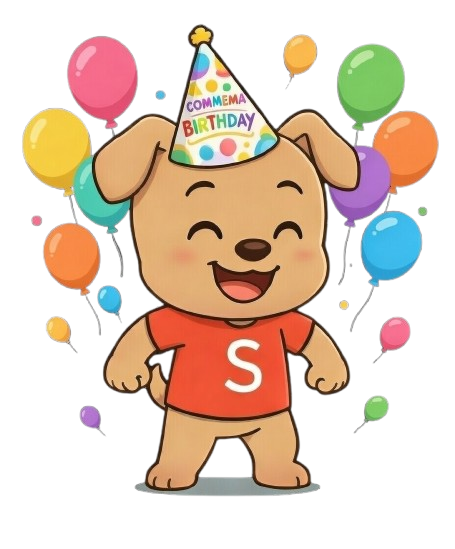
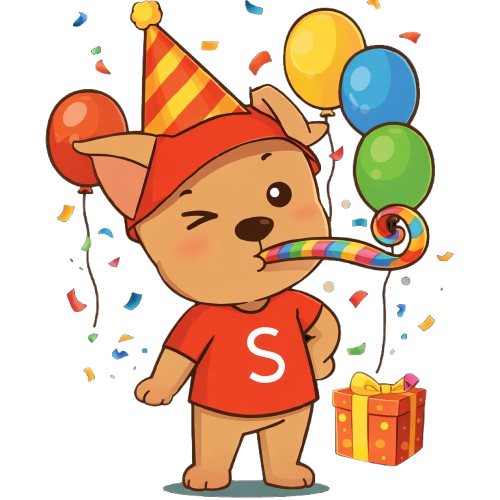
tour versão 2 completa

diff --git a/src/components/driver/ShopitoMascot.tsx b/src/components/driver/ShopitoMascot.tsx
@@ -1,6 +1,6 @@
 import React, { useState, useEffect } from "react";
 
-// MAPEAMENTO COMPLETO (Antigos + Novos)
+// Imagens Tour
 const MOODS = {
   // --- ANTIGOS ---
   welcome: [
@@ -8,15 +8,15 @@ const MOODS = {
     "/mascots/Shopito-Acenando/wave-2.png",
   ],
   angry: [
-    "/mascots/Shopito-Brabo/angry-1.png",
-    "/mascots/Shopito-Brabo/angry-2.png",
+    "/mascots/Shopito-Brabo/Policial1.png",
+    "/mascots/Shopito-Brabo/Policial2.png",
+    "/mascots/Shopito-Brabo/Policial3.png",
   ],
   ok: ["/mascots/Shopito-Ok/ok-1.png", "/mascots/Shopito-Ok/ok-2.png"],
   "point-right": ["/mascots/Shopito-Apontando/point-right.png"],
   "point-left": ["/mascots/Shopito-Apontando/point-left.png"],
   chicken: ["/mascots/Galinha-Bot/Galinha.png"],
 
-  // --- NOVOS (Adicionados Agora) ---
   map: [
     "/mascots/ShoppitoMapa/ShoppitoProf-1.png",
     "/mascots/ShoppitoMapa/ShoppitoProf-2.png",
@@ -27,11 +27,26 @@ const MOODS = {
     "/mascots/ShoppitoRanking/ShopitoCorredor-2.png",
     "/mascots/ShoppitoRanking/ShopitoCorredor-3.png",
   ],
-  // ✅ ALTERADO: Renomeei de 'celebrate' para 'finale' para bater com o Tour
+
+  weather: [
+    "/mascots/Galinha-Bot/shoppitotempo1.png",
+    "/mascots/Galinha-Bot/shoppitotempo2.png",
+  ],
+
   finale: [
     "/mascots/ShoppitoComemoracao/ShoppitoComemoracao-1.png",
     "/mascots/ShoppitoComemoracao/ShoppitoComemoracao-2.png",
     "/mascots/ShoppitoComemoracao/ShopitoComemoracao-3.png",
+  ],
+
+  profile: [
+    "/mascots/Profile/profile1.png",
+    "/mascots/Profile/profile2.png",
+    "/mascots/Profile/profile3.png",
+    "/mascots/Profile/profile4.png",
+    "/mascots/Profile/profile5.png",
+    "/mascots/Profile/profile6.png",
+    "/mascots/Profile/profile7.png",
   ],
 };
 

diff --git a/src/components/DriverInterface.tsx b/src/components/DriverInterface.tsx
@@ -663,7 +663,7 @@ export const DriverInterface: React.FC<DriverInterfaceProps> = ({ driver }) => {
         "Aqui você vê a previsão semanal. Se quiser detalhes, basta clicar no card para expandir.",
       title: "Previsão do Tempo",
       placement: "auto",
-      data: { mood: "point-right" },
+      data: { mood: "weather" },
       spotlightPadding: 10,
     },
     {
@@ -710,7 +710,7 @@ export const DriverInterface: React.FC<DriverInterfaceProps> = ({ driver }) => {
         "Mantenha seus dados atualizados e sua senha segura aqui nesta aba.",
       title: "Seu Perfil",
       placement: "auto",
-      data: { mood: "point-right" },
+      data: { mood: "profile" },
     },
     {
       target: "#chatbot-tour-target",
